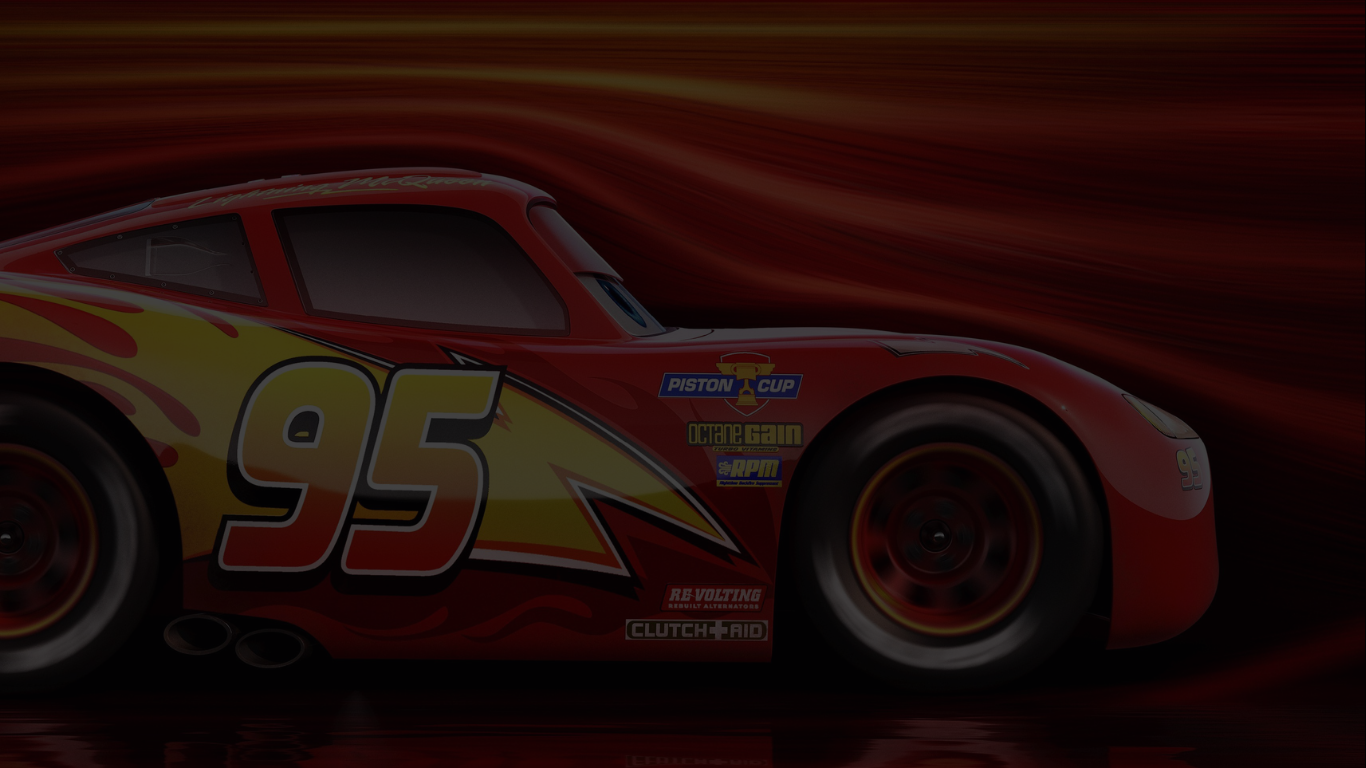
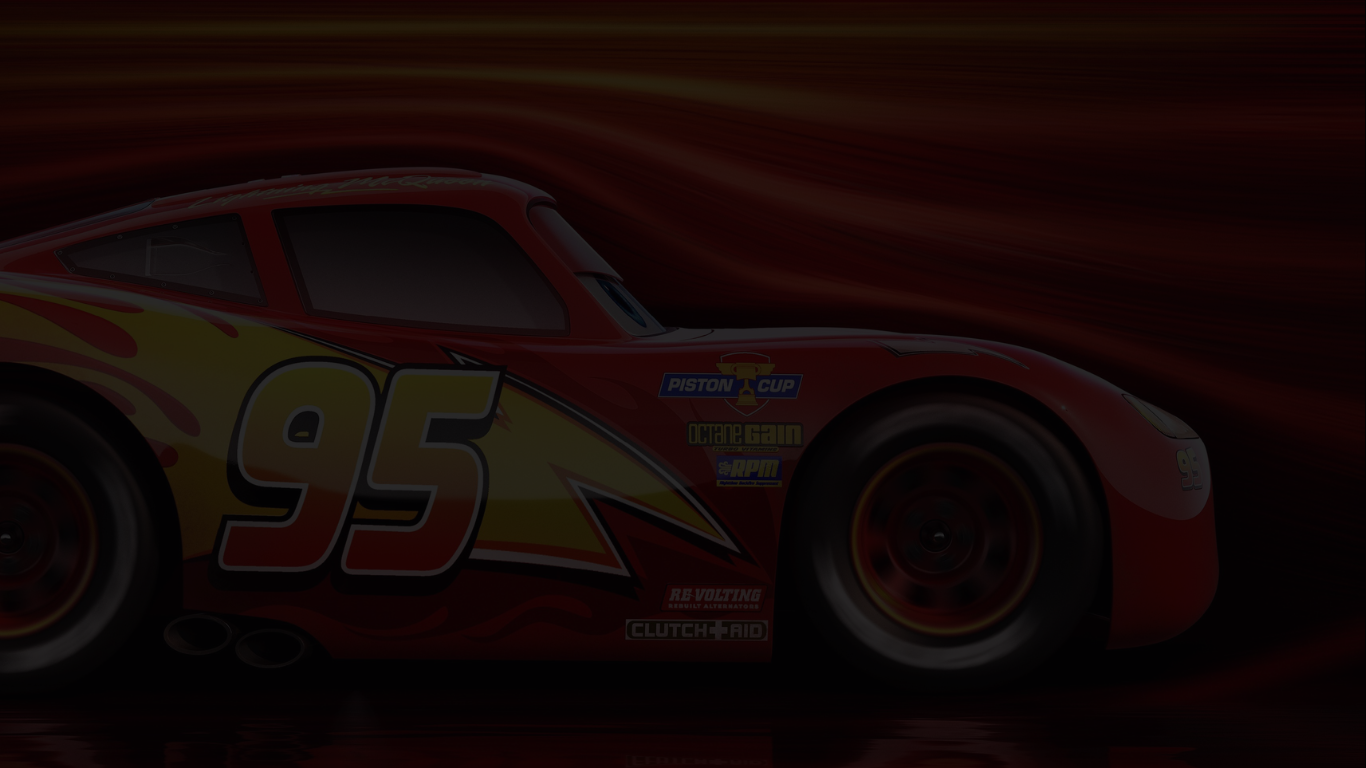
feat, style(cadastro): finalizando tela de cadastro com estilização

diff --git a/css/styleLogin.css b/css/styleLogin.css
@@ -1,7 +1,91 @@
 body {
     background-image: url(../imgs/img_login_cadastro.png);
     background-size: cover;
-    background-position: center 12%;
+    background-position: center 50%;
+    margin: 0;
+    font-family: 'Inter', sans-serif;
+    color: #F2F2F2;
 }
+
+h1 {
+    font-family: 'Bebas neue', sans-serif;
+    color: #F2F2F2;
+    font-weight: 550;
+    font-size: 40px;
+    margin: 0;
+}
+
+.formulario {
+    display: flex;
+    flex-direction: column;
+    justify-content: center;
+    align-items: center;
+    margin: 0 auto;
+    min-height: 100vh;
+    width: 500px;
+    gap: 10px;
+}
+
+input {
+    width: 100%;
+    height: 40px;
+    border-radius: 5px;
+    border: none;
+    background-color: #F2F2F2;
+    opacity: 0.5;
+    font-size: 15px;
+    box-sizing: border-box;
+    padding: 10px;
+}
+
+.campos-formulario {
+    display: flex;
+    flex-direction: column;
+    gap: 20px;
+    width: 100%;
+}
+
+.campos-formulario p {
+    margin: 0;
+    font-size: 10px;
+    color: #8B929B;
+}
+
+.campo {
+    display: flex;
+    flex-direction: column;
+    gap: 5px;
+}
+
+button {
+    width: 100%;
+    height: 80  px;
+    background-color: #E82127;
+    border: none;
+    border-radius: 5px;
+    color: #F2F2F2;
+    box-sizing: border-box;
+    margin-top: 30px;
+    font-family: 'Bebas Neue', sans-serif;
+    font-size: 30px;
+    padding: 15px;
+    cursor: pointer;
+}
+
+.p-senha {
+    margin: 0;
+}
+
+.p-login {
+    margin-top: 10px;
+    font-size: 15px;
+    color: #F2F2F2;
+}
+
+a {
+    text-decoration: none;
+}
+
+
 
 

diff --git a/public/cadastro.html b/public/cadastro.html
@@ -12,6 +12,36 @@
     <link rel="stylesheet" href="../css/styleLogin.css">
 </head>
 <body>
+    <div class="formulario">
+        <h1>Crie sua <span style="color: #E82127;">conta</span></h1>
+
+        <div class="campos-formulario">
+            <div class="campo">
+                <label for="ipt_nome">Nome</label>
+                <input type="text" id="ipt_nome" placeholder="Nome">
+            </div>
+            
+            <div class="campo">
+                <label for="ipt_email">E-mail</label>
+                <input type="text" id="ipt_email" placeholder="nome@email.com">
+            </div>
+
+            <div class="campo">
+                <label for="ipt_senha">Senha</label>
+                <input type="password" id="ipt_senha" placeholder="Digite sua senha">
+                <p class="p-senha">X 8+ caracteres | X Letra maiúscula | X Letra minúscula | X Caractere especial</p>
+            </div>
+
+            <div class="campo">
+                <label for="ipt_confirmacaoSenha">Confirmar senha</label>
+                <input type="text" id="ipt_confirmacaoSenha" placeholder="Confirme a senha">
+            </div>
+        </div>
+
+        <button onclick="cadastrar()">Cadastrar</button>
+
+        <p class="p-login">Já tem uma conta? <a href="" style="color: #E82127;"><b>Entrar</b></a></p>
+    </div>
     
 </body>
 </html>
